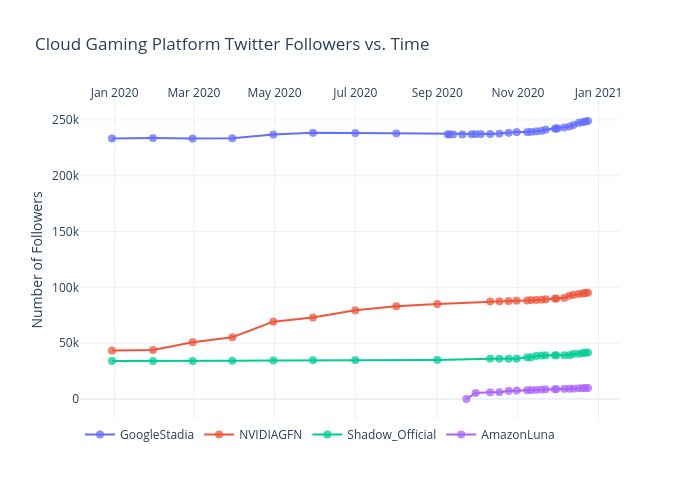
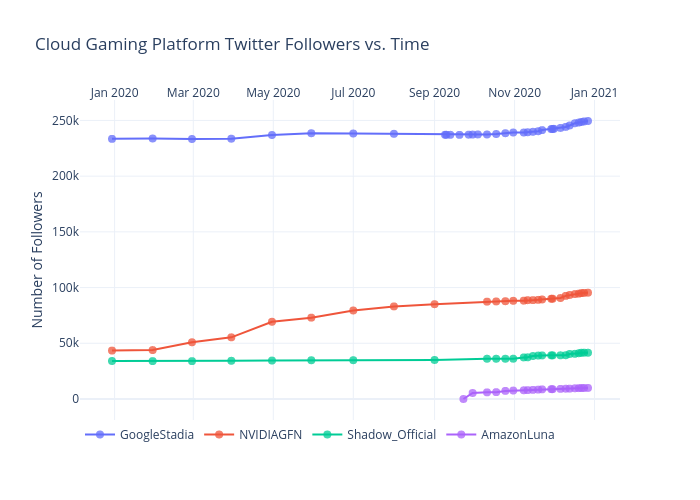
Add files via upload

diff --git a/twitter_platforms/figure.js b/twitter_platforms/figure.js
@@ -103,7 +103,8 @@ var figure = {
                 "247455",
                 "248080",
                 "248603",
-                "249080"
+                "249080",
+                "249474"
             ],
             "marker": {
                 "size": 8,
@@ -216,7 +217,8 @@ var figure = {
                 "94153",
                 "94545",
                 "95037",
-                "95214"
+                "95214",
+                "95402"
             ],
             "marker": {
                 "size": 8,
@@ -329,7 +331,8 @@ var figure = {
                 "40556",
                 "41063",
                 "41506",
-                "41555"
+                "41555",
+                "41529"
             ],
             "marker": {
                 "size": 8,
@@ -442,7 +445,8 @@ var figure = {
                 "9614",
                 "9741",
                 "9829",
-                "9879"
+                "9879",
+                "9927"
             ],
             "marker": {
                 "size": 8,
@@ -461,8 +465,8 @@ var figure = {
             "side": "top",
             "type": "date",
             "range": [
-                "2019-12-07 10:32:53.5245",
-                "2021-01-15 13:27:06.4755"
+                "2019-12-07 06:02:09.9706",
+                "2021-01-18 17:57:50.0294"
             ],
             "title": {
                 "text": ""
@@ -472,8 +476,8 @@ var figure = {
         "yaxis": {
             "type": "linear",
             "range": [
-                -17068.638804576232,
-                266148.63880457624
+                -17095.638337613826,
+                266569.63833761384
             ],
             "title": {
                 "text": "Number of Followers"
